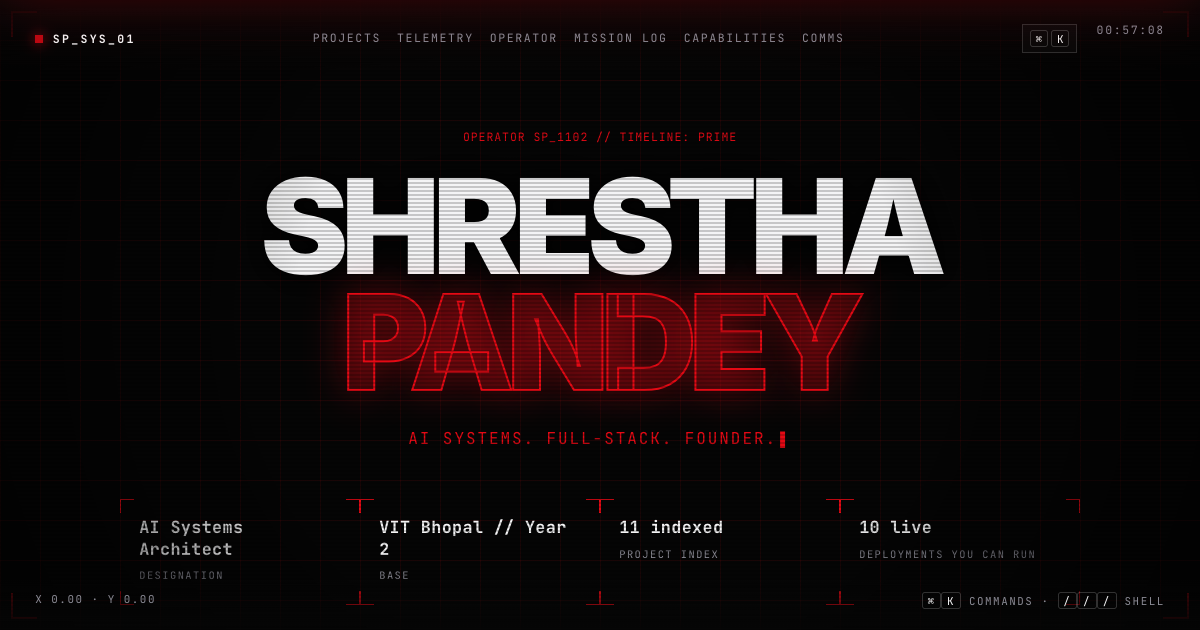
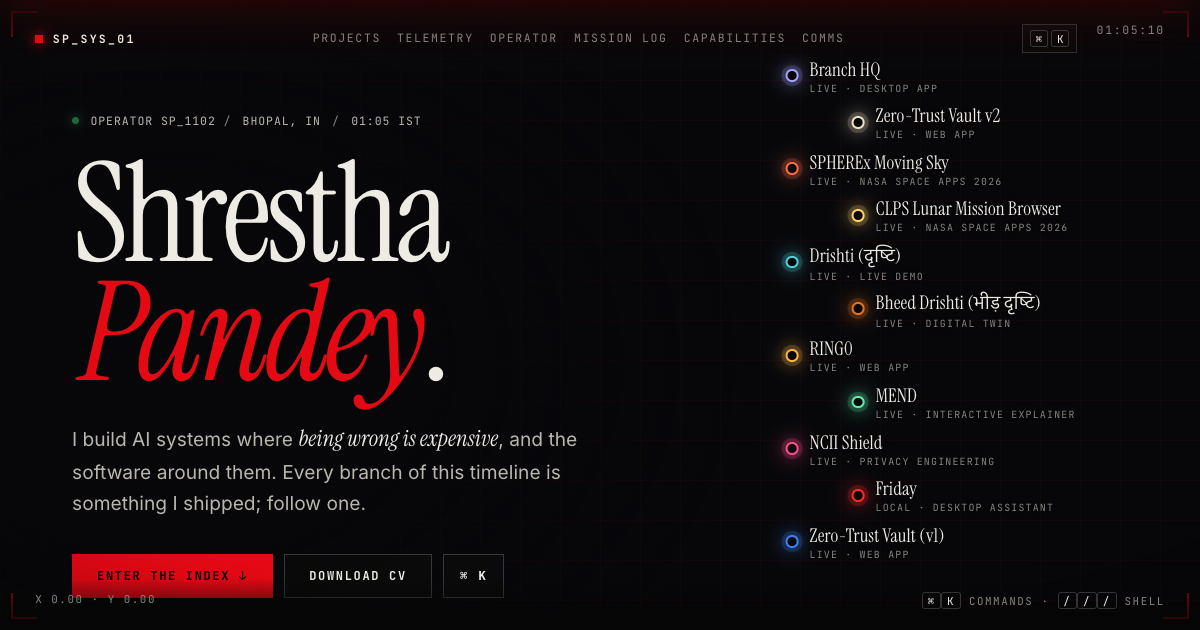
REDESIGN: landing page in the language of the projects themselves
Serif display name with the red italic, warm ink palette, no scanlines.
The timeline is now the navigation: every strand ends at a labelled,
clickable project node, and hovering a node or an index row lights its
branch. Serif section headings, live stat line, refreshed OG image.

diff --git a/home.js b/home.js
@@ -10,16 +10,13 @@
     boot.addEventListener('click', end); addEventListener('keydown', end, { once: true });
 })();
 
-// ---- Hero text ----
-scramble(document.querySelector('#name span'), 'SHRESTHA', 900);
-scramble(document.querySelector('#name .r'), 'PANDEY', 1200);
-(() => { // typed subtitle
-    const el = document.getElementById('sub'), text = 'AI SYSTEMS. FULL-STACK. FOUNDER.';
-    if (calm) return (el.textContent = text);
-    let i = 0; setTimeout(function t() { el.textContent = text.slice(0, ++i); if (i < text.length) setTimeout(t, 55); }, 1300);
+// ---- Hero ----
+(() => {
+    const T = typeof TELEMETRY !== 'undefined' ? TELEMETRY.totals : null, live = PROJECTS.filter(p => p.live).length;
+    document.getElementById('hero-stats').innerHTML = [`<b>${PROJECTS.length}</b> timelines`, `<b>${live}</b> running live`, ...(T ? [`<b>${fmt(T.commits)}</b> commits`, `<b>${fmt(T.loc)}</b> lines`] : [])].join('<i aria-hidden="true">/</i>');
+    const ht = document.getElementById('hero-time'), tk = () => (ht.textContent = new Date().toLocaleTimeString('en-GB', { timeZone: 'Asia/Kolkata', hour: '2-digit', minute: '2-digit' }) + ' IST');
+    tk(); setInterval(tk, 30000);
 })();
-document.getElementById('count').textContent = PROJECTS.length + ' indexed';
-document.getElementById('livecount').textContent = PROJECTS.filter(p => p.live).length + ' live';
 
 // ---- Project index + inspector ----
 const targets = document.getElementById('targets'), insp = document.getElementById('insp');
@@ -65,16 +62,22 @@ const navLinks = [...document.querySelectorAll('.nav a')];
 const seenObs = new IntersectionObserver(es => es.forEach(e => { if (e.isIntersecting) navLinks.forEach(a => a.setAttribute('aria-current', String(a.hash === '#' + e.target.id))); }), { rootMargin: '-40% 0px -55% 0px' });
 document.querySelectorAll('main > section').forEach(s => seenObs.observe(s));
 
-// ---- Background: a branching timeline. One luminous trunk splits into a strand per project (each in its colour);
-// strands grow, carry pulses, get pruned and regrow. Hover a project to light its branch. ----
+// ---- Background: a branching timeline. A trunk splits into one strand per project, in that project's colour;
+// on wide screens each strand ends at a labelled node you can click. Side branches grow, get pruned and regrow. ----
 (() => {
-    const canvas = document.getElementById('bg-canvas'), ctx = canvas.getContext('2d');
+    const canvas = document.getElementById('bg-canvas'), ctx = canvas.getContext('2d'), nodesEl = document.getElementById('nodes');
     const DPR = Math.min(devicePixelRatio || 1, 2), cols = PROJECTS.map(p => p.accent), N = cols.length;
     const R = (a, b) => a + Math.random() * (b - a), accentNow = () => getComputedStyle(document.documentElement).getPropertyValue('--accent').trim() || '#e50914';
-    let W, H, branches = [], pulses = [], focus = -1, mono = null, trunkCol = accentNow(), t = 0, mx = 0, my = 0, smx = 0, smy = 0, nextPrune = 4;
+    let W, H, branches = [], mains = [], pulses = [], focus = -1, mono = null, trunkCol = accentNow(), t = 0, mx = 0, my = 0, smx = 0, smy = 0, nextPrune = 5;
+    const wide = () => innerWidth > 900;
 
-    // A strand wanders: a slow sine sway plus jitter, eased toward a heading so it keeps travelling outward.
-    const walk = (x, y, ang, len, heading, ph, maxSteps = 900) => {
+    nodesEl.innerHTML = PROJECTS.map((p, i) => `<a class="node" href="project.html?id=${p.id}" style="--c:${p.accent}" data-i="${i}"><i aria-hidden="true"></i><span><b>${esc(p.title)}</b><small>${p.live ? 'live' : 'local'} · ${esc(p.kind.split('·')[0].trim())}</small></span></a>`).join('');
+    const nodeEls = [...nodesEl.children];
+    nodesEl.addEventListener('pointerover', e => { const n = e.target.closest('.node'); if (n) window.hudFocus(+n.dataset.i); });
+    nodesEl.addEventListener('pointerleave', () => window.hudFocus(-1));
+    nodesEl.addEventListener('focusin', e => { const n = e.target.closest('.node'); if (n) window.hudFocus(+n.dataset.i); });
+
+    const walk = (x, y, ang, len, heading, ph, maxSteps = 900) => { // a wandering side branch
         const pts = [x, y];
         for (let i = 0; i < maxSteps; i++) {
             ang += Math.sin(i * .06 + ph) * .03 + R(-.012, .012) + (heading - ang) * .012;
@@ -83,73 +86,80 @@ document.querySelectorAll('main > section').forEach(s => seenObs.observe(s));
         }
         return pts;
     };
+    const curve = (sx, sy, tx, ty, len) => { // an S-curve from the split point to the node, with a slight living wobble
+        const pts = [], n = Math.max(8, Math.ceil(Math.hypot(tx - sx, ty - sy) / len)), ph = R(0, 6), cx = sx + (tx - sx) * .55;
+        for (let k = 0; k <= n; k++) {
+            const u = k / n, a = (1 - u) ** 3, b = 3 * (1 - u) ** 2 * u, c = 3 * (1 - u) * u * u, d = u ** 3;
+            const x = a * sx + b * cx + c * cx + d * tx, y = a * sy + b * sy + c * ty + d * ty, w = Math.sin(u * Math.PI * 3 + ph) * 5 * DPR * Math.sin(u * Math.PI);
+            pts.push(x, y + w);
+        }
+        return pts;
+    };
     const add = (pts, k, w, depth, delay) => { const b = { pts, n: pts.length / 2, k, w, depth, delay, g: 0, a: 1, state: 0, wait: 0, flash: 0 }; branches.push(b); return b; };
 
     const build = (grown = false) => {
         W = canvas.width = Math.round(innerWidth * DPR); H = canvas.height = Math.round(innerHeight * DPR);
-        const len = 7 * DPR, small = innerWidth < 700; branches = []; pulses = [];
-        const trunk = walk(-.04 * W, .5 * H, 0, len, 0, R(0, 6), Math.round(W * .62 / len));
-        add(trunk, -1, 3.4 * DPR, 0, 0);
+        const len = 7 * DPR, big = wide(); branches = []; mains = [];
+        const trunk = curve(-.04 * W, (big ? .7 : .62) * H, (big ? .56 : 1.05) * W, (big ? .5 : .55) * H, len); // the trunk rises gently and ends where the last strand splits off
+        add(trunk, -1, 3.2 * DPR, 0, 0);
+        const xAt = x => { let j = 0; while (j < trunk.length / 2 - 1 && trunk[j * 2] < x) j++; return j; };
         for (let i = 0; i < N; i++) {
-            const f = .16 + .56 * i / (N - 1), j = Math.floor(f * (trunk.length / 2 - 1)), side = i % 2 ? 1 : -1;
-            const spread = (.22 + .6 * ((i >> 1) / (N / 2))) * side + R(-.06, .06); // alternate above/below, wider the later they split
-            const main = walk(trunk[j * 2], trunk[j * 2 + 1], spread * .4, len, spread * .5, R(0, 6));
-            add(main, i, 1.9 * DPR, 1, .6 + i * .13);
-            for (let s = 0, subs = small ? 2 : 3 + (i % 3); s < subs; s++) {
-                const m = Math.floor(R(.12, .8) * (main.length / 2 - 2)), dir = Math.random() < .5 ? -1 : 1;
-                const sub = walk(main[m * 2], main[m * 2 + 1], spread * .5 + dir * R(.2, .5), len * .9, spread * .5 + dir * R(.5, 1), R(0, 6), Math.floor(R(30, 90)));
-                add(sub, i, 1 * DPR, 2, 1.3 + i * .13 + s * .25);
-                if (!small && Math.random() < .55) { const m2 = Math.floor(R(.3, .8) * (sub.length / 2 - 2)); add(walk(sub[m2 * 2], sub[m2 * 2 + 1], spread * .5 + dir * R(.6, 1.1), len * .8, spread * .5 + dir * R(.8, 1.4), R(0, 6), Math.floor(R(15, 40))), i, .7 * DPR, 3, 2 + i * .13 + s * .25); }
+            const j = xAt(W * (.18 + .34 * i / (N - 1))), sx = trunk[j * 2], sy = trunk[j * 2 + 1];
+            const tx = big ? W * (.66 + (i % 2) * .055) : W * 1.12, ty = H * (big ? .12 + .74 * i / (N - 1) : .04 + .9 * i / (N - 1));
+            const main = add(curve(sx, sy, tx, ty, len), i, 1.8 * DPR, 1, .5 + i * .14); main.node = [tx / DPR, ty / DPR]; mains[i] = main;
+            for (let s = 0, subs = big ? 2 + (i % 2) : 1; s < subs; s++) { // side branches peel off the strand
+                const m = Math.floor(R(.2, .75) * (main.n - 2)), dx = main.pts[(m + 1) * 2] - main.pts[m * 2], dy = main.pts[(m + 1) * 2 + 1] - main.pts[m * 2 + 1], dir = Math.random() < .5 ? -1 : 1, ang = Math.atan2(dy, dx);
+                add(walk(main.pts[m * 2], main.pts[m * 2 + 1], ang + dir * R(.3, .6), len * .9, ang + dir * R(.6, 1.1), R(0, 6), Math.floor(R(25, 70))), i, .9 * DPR, 2, 1.4 + i * .14 + s * .3);
             }
         }
         if (grown) branches.forEach(b => { b.g = 1; b.state = 2; });
-        pulses = Array.from({ length: small ? 10 : 22 }, () => ({ b: null, u: 0, sp: R(.1, .26) }));
+        pulses = Array.from({ length: big ? 20 : 9 }, () => ({ b: null, u: 0, sp: R(.12, .3) }));
+        nodeEls.forEach((el, i) => { el.style.left = mains[i].node[0] + 'px'; el.style.top = mains[i].node[1] + 'px'; el.classList.toggle('on', grown); });
     };
     build(); addEventListener('resize', () => build(true));
     addEventListener('pointermove', e => { mx = e.clientX / innerWidth * 2 - 1; my = e.clientY / innerHeight * 2 - 1; });
-    window.hudFocus = i => { focus = i; };                                    // hovered project: its branch glows, the rest recede
-    window.heroTint = hex => { mono = hex; trunkCol = hex; };                 // `theme` in the shell: everything goes one colour
+    window.hudFocus = i => { focus = i; nodeEls.forEach((el, k) => el.classList.toggle('lit', k === i)); nodesEl.classList.toggle('focus', i >= 0); };
+    window.heroTint = hex => { mono = hex; trunkCol = hex; };
 
-    const pickPulseBranch = () => { const live = branches.filter(b => b.state >= 1 && b.state <= 2 && b.g > .5 && b.depth > 0); return live.length ? live[(Math.random() * live.length) | 0] : null; };
-    const step = dt => { // dt in seconds
+    const pickPulse = () => { const live = branches.filter(b => b.state >= 1 && b.state <= 2 && b.g > .5 && b.depth > 0); return live.length ? live[(Math.random() * live.length) | 0] : null; };
+    const step = dt => {
         t += dt; smx += (mx - smx) * Math.min(1, dt * 3); smy += (my - smy) * Math.min(1, dt * 3);
         for (const b of branches) {
             if (b.state === 0 && t >= b.delay) b.state = 1;
-            if (b.state === 1) { b.g = Math.min(1, b.g + dt / (2.2 + b.depth * .7)); if (b.g >= 1) b.state = 2; }
+            if (b.state === 1) { b.g = Math.min(1, b.g + dt / (1.8 + b.depth * .6)); if (b.g >= 1) b.state = 2; }
             if (b.state === 3) { b.a -= dt / 1.4; b.flash = Math.max(0, b.flash - dt * 2); if (b.a <= 0) { b.state = 4; b.wait = R(1.5, 3.5); } }
             if (b.state === 4 && (b.wait -= dt) <= 0) { b.g = 0; b.a = 1; b.state = 1; }
         }
-        if (t > nextPrune) { // a strand is pruned: it flashes, fades, then a new one grows in its place
-            nextPrune = t + R(3, 6);
-            const held = branches.filter(b => b.state === 2 && b.depth >= 2); if (held.length) { const b = held[(Math.random() * held.length) | 0]; b.state = 3; b.flash = 1; }
-        }
-        for (const p of pulses) { if (!p.b || p.b.state > 2 || p.u >= p.b.g) { p.b = pickPulseBranch(); p.u = 0; } else p.u += dt * p.sp; }
+        mains.forEach((b, i) => nodeEls[i].classList.toggle('on', b.g >= .98));
+        if (t > nextPrune) { nextPrune = t + R(3, 6); const held = branches.filter(b => b.state === 2 && b.depth >= 2); if (held.length) { const b = held[(Math.random() * held.length) | 0]; b.state = 3; b.flash = 1; } }
+        for (const p of pulses) { if (!p.b || p.b.state > 2 || p.u >= p.b.g) { p.b = pickPulse(); p.u = 0; } else p.u += dt * p.sp; }
     };
     const draw = () => {
         ctx.setTransform(1, 0, 0, 1, 0, 0); ctx.clearRect(0, 0, W, H);
-        ctx.translate(-smx * 14 * DPR, -smy * 8 * DPR); ctx.globalCompositeOperation = 'lighter'; ctx.lineCap = ctx.lineJoin = 'round';
-        const tip = [];
+        ctx.translate(-smx * 14 * DPR, -smy * 8 * DPR); nodesEl.style.transform = `translate(${(-smx * 14).toFixed(1)}px, ${(-smy * 8).toFixed(1)}px)`;
+        ctx.globalCompositeOperation = 'lighter'; ctx.lineCap = ctx.lineJoin = 'round';
+        const tips = [];
         for (const b of branches) {
             if (b.state === 0 || b.a <= 0) continue;
             const m = Math.max(2, Math.floor(b.g * (b.n - 1)) + 1), col = mono || (b.k < 0 ? trunkCol : cols[b.k]);
-            const f = (focus < 0 ? 1 : b.k === focus ? 2 : b.k < 0 ? .8 : .28) * (innerWidth < 700 ? .55 : 1), base = [.9, .6, .42, .3][b.depth];
+            const f = (focus < 0 ? 1 : b.k === focus ? 2.1 : b.k < 0 ? .7 : .22) * (wide() ? 1 : .55), base = [.85, .62, .38, .28][b.depth];
             ctx.strokeStyle = col; ctx.beginPath(); ctx.moveTo(b.pts[0], b.pts[1]); for (let i = 1; i < m; i++) ctx.lineTo(b.pts[i * 2], b.pts[i * 2 + 1]);
-            ctx.lineWidth = b.w * 4; ctx.globalAlpha = Math.min(1, .07 * f) * b.a; ctx.stroke();      // soft halo
-            ctx.lineWidth = b.w * (focus === b.k ? 1.5 : 1); ctx.globalAlpha = Math.min(1, base * f) * b.a; ctx.stroke();  // the strand
-            if (b.state === 1 || b.flash > 0) tip.push([b.pts[(m - 1) * 2], b.pts[(m - 1) * 2 + 1], col, b.flash]);
+            ctx.lineWidth = b.w * 4.5; ctx.globalAlpha = Math.min(1, .07 * f) * b.a; ctx.stroke();
+            ctx.lineWidth = b.w * (focus === b.k ? 1.6 : 1); ctx.globalAlpha = Math.min(1, base * f) * b.a; ctx.stroke();
+            if ((b.state === 1 && b.depth > 0) || b.flash > 0) tips.push([b.pts[(m - 1) * 2], b.pts[(m - 1) * 2 + 1], col, b.flash]);
         }
-        ctx.globalAlpha = 1;
-        for (const [x, y, col, fl] of tip) { ctx.fillStyle = fl > 0 ? '#fff' : col; ctx.globalAlpha = fl > 0 ? fl : .8; ctx.beginPath(); ctx.arc(x, y, (fl > 0 ? 3 + 6 * (1 - fl) : 2) * DPR, 0, 6.283); ctx.fill(); }
-        for (const p of pulses) { // a bright bead travelling out along a strand
-            if (!p.b) continue; const i = Math.min(p.b.n - 1, Math.floor(p.u * (p.b.n - 1))), x = p.b.pts[i * 2], y = p.b.pts[i * 2 + 1], col = mono || cols[p.b.k];
-            ctx.fillStyle = col; ctx.globalAlpha = .18 * p.b.a; ctx.beginPath(); ctx.arc(x, y, 7 * DPR, 0, 6.283); ctx.fill();
-            ctx.fillStyle = '#fff'; ctx.globalAlpha = .85 * p.b.a; ctx.beginPath(); ctx.arc(x, y, 1.6 * DPR, 0, 6.283); ctx.fill();
+        for (const [x, y, col, fl] of tips) { ctx.fillStyle = fl > 0 ? '#fff' : col; ctx.globalAlpha = fl > 0 ? fl : .85; ctx.beginPath(); ctx.arc(x, y, (fl > 0 ? 3 + 6 * (1 - fl) : 2) * DPR, 0, 6.283); ctx.fill(); }
+        for (const p of pulses) {
+            if (!p.b) continue; const i = Math.min(p.b.n - 1, Math.floor(p.u * (p.b.n - 1))), x = p.b.pts[i * 2], y = p.b.pts[i * 2 + 1];
+            ctx.fillStyle = mono || cols[p.b.k]; ctx.globalAlpha = .2 * p.b.a; ctx.beginPath(); ctx.arc(x, y, 7 * DPR, 0, 6.283); ctx.fill();
+            ctx.fillStyle = '#fff'; ctx.globalAlpha = .9 * p.b.a; ctx.beginPath(); ctx.arc(x, y, 1.6 * DPR, 0, 6.283); ctx.fill();
         }
         ctx.globalAlpha = 1;
     };
-    if (calm) { build(true); draw(); return; } // reduced motion: a fully grown, still timeline
+    const fade = () => { const k = Math.min(1, scrollY / innerHeight); canvas.style.opacity = String(1 - k * .8); nodesEl.style.opacity = String(1 - k * 1.6); nodesEl.style.visibility = k > .62 ? 'hidden' : ''; };
+    if (calm) { build(true); draw(); addEventListener('scroll', fade, { passive: true }); return; } // reduced motion: a still, fully grown timeline
     let last = performance.now();
-    (function loop(now) { requestAnimationFrame(loop); const dt = Math.min(.1, (now - last) / 1000); last = now; step(dt); draw(); canvas.style.opacity = String(1 - Math.min(1, scrollY / innerHeight) * .6); })(last);
+    (function loop(now) { requestAnimationFrame(loop); const dt = Math.min(.1, (now - last) / 1000); last = now; step(dt); draw(); fade(); })(last);
 })();
 
 // ---- Shell: type /// ----

diff --git a/site.css b/site.css
@@ -1,14 +1,14 @@
 /* SP_SYS: a terminal OS for a CV. Original look (red HUD, bracketed targets, hidden shell), taken further. */
 :root {
     color-scheme: dark;
-    --bg: #050505; --fg: #f4f4f5; --soft: #c4c4cc; --muted: #8a8a94; --line: #1f1f24;
+    --bg: #07070a; --fg: #eeebe4; --soft: #b9b6ae; --muted: #85837d; --line: #1f1f24;
     --accent: #e50914; --accent2: #ff6b73;
-    --display: 'Inter', system-ui, sans-serif; --body: 'Inter', system-ui, sans-serif; --mono: 'JetBrains Mono', ui-monospace, Menlo, monospace;
+    --display: 'Inter', system-ui, sans-serif; --serif: 'Instrument Serif', 'Iowan Old Style', Georgia, serif; --body: 'Inter', system-ui, sans-serif; --mono: 'JetBrains Mono', ui-monospace, Menlo, monospace;
 }
 @view-transition { navigation: auto; } /* cross-document morphs between home and dossiers, where supported */
 * { margin: 0; padding: 0; box-sizing: border-box; }
 html { scroll-behavior: smooth; scroll-padding-top: 5rem; }
-body { --hot: var(--accent); --grid: color-mix(in srgb, var(--accent) 9%, transparent); background: var(--bg); color: var(--soft); font: 400 1rem/1.7 var(--body); -webkit-font-smoothing: antialiased; overflow-x: hidden;
+body { --hot: var(--accent); --grid: color-mix(in srgb, var(--accent) 5%, transparent); background: var(--bg); color: var(--soft); font: 400 1rem/1.7 var(--body); -webkit-font-smoothing: antialiased; overflow-x: hidden;
     background-image: linear-gradient(var(--grid) 1px, transparent 1px), linear-gradient(90deg, var(--grid) 1px, transparent 1px); background-size: 40px 40px; }
 a { color: inherit; text-decoration: none; }
 :focus-visible { outline: 2px solid var(--hot); outline-offset: 3px; }
@@ -31,7 +31,7 @@ h1, h2, h3 { color: var(--fg); text-wrap: balance; }
     background-image: linear-gradient(var(--accent), var(--accent)), linear-gradient(var(--accent), var(--accent)), linear-gradient(var(--accent), var(--accent)), linear-gradient(var(--accent), var(--accent)), linear-gradient(var(--accent), var(--accent)), linear-gradient(var(--accent), var(--accent)), linear-gradient(var(--accent), var(--accent)), linear-gradient(var(--accent), var(--accent));
     background-repeat: no-repeat; background-size: 26px 2px, 2px 26px, 26px 2px, 2px 26px, 26px 2px, 2px 26px, 26px 2px, 2px 26px;
     background-position: 0 0, 0 0, 100% 0, 100% 0, 0 100%, 0 100%, 100% 100%, 100% 100%; }
-.hud::after { content: ''; position: absolute; inset: 0; background: linear-gradient(transparent 50%, #00000030 50%) 0 0/100% 4px, radial-gradient(circle, transparent 45%, #000 135%); }
+.hud::after { content: ''; position: absolute; inset: 0; background: radial-gradient(120% 90% at 50% 45%, transparent 55%, #000 140%); }
 #bg-canvas { position: fixed; inset: 0; z-index: -2; width: 100%; height: 100%; }
 
 /* Top and bottom bars */
@@ -58,18 +58,45 @@ h1, h2, h3 { color: var(--fg); text-wrap: balance; }
 
 /* ---------- HOME ---------- */
 main { padding: 0 clamp(1.25rem, 6vw, 6rem); max-width: 84rem; margin: 0 auto; }
-.hero { min-height: 100vh; min-height: 100svh; display: flex; flex-direction: column; justify-content: center; align-items: center; text-align: center; padding: 8rem 0 6rem; }
-.hero .tag { color: var(--accent); margin-bottom: 1.4rem; }
-.hero h1 { text-shadow: 0 0 40px #000, 0 0 12px #000a; font: 900 clamp(3.2rem, 11vw, 9.5rem)/.88 var(--display); letter-spacing: -.055em; text-transform: uppercase; }
+.hero { position: relative; min-height: 100vh; min-height: 100svh; display: flex; align-items: center; padding: 7rem 0 5rem; }
+.hero-copy { position: relative; max-width: 44rem; }
+.hero-copy::before { content: ''; position: absolute; inset: -12rem -10rem -8rem -40vw; z-index: -1; background: radial-gradient(closest-side, #07070ae6 40%, transparent); pointer-events: none; }
+.kick { display: flex; align-items: center; gap: .7rem; color: var(--soft); }
+.kick { white-space: nowrap; } .kick i { font-style: normal; color: var(--muted); }
+@media (max-width: 520px) { .kick .op { display: none; } }
+.kick .dot { width: .45rem; height: .45rem; border-radius: 50%; background: #4ade80; box-shadow: 0 0 10px #4ade80; animation: pulse 2.4s infinite; }
+.hero h1 { margin-top: 1.6rem; font: 400 clamp(4.4rem, 11.5vw, 10.5rem)/.86 var(--serif); letter-spacing: -.035em; color: var(--fg); }
 .hero h1 span { display: block; }
-.hero h1 .r { color: color-mix(in srgb, var(--accent) 20%, transparent); -webkit-text-stroke: 2px var(--accent); text-shadow: 0 0 40px color-mix(in srgb, var(--accent) 45%, transparent); }
-.hero .sub { margin-top: 1.6rem; font: 400 clamp(.8rem, 1.6vw, 1rem)/1.6 var(--mono); letter-spacing: .12em; color: var(--accent); min-height: 1.6em; }
-.hero .sub::after { content: '▌'; margin-left: .2rem; animation: pulse 1s steps(1) infinite; }
-.readout { margin-top: 3rem; display: grid; grid-template-columns: repeat(4, minmax(0, 1fr)); width: min(100%, 60rem); }
-.cell { padding: 1.1rem 1.2rem; text-align: left; }
+.hero h1 .l2 { font-style: italic; color: var(--accent); padding-left: .06em; }
+.hero h1 .l2 b { font-weight: 400; color: var(--fg); font-style: normal; }
+@media (prefers-reduced-motion: no-preference) {
+    .hero h1 span, .hero-sub, .hero .cta, .hero-stats, .kick { animation: heroIn 1.1s cubic-bezier(.2, .8, .2, 1) both; }
+    .hero h1 .l1 { animation-delay: .15s; } .hero h1 .l2 { animation-delay: .3s; } .hero-sub { animation-delay: .5s; } .hero .cta { animation-delay: .65s; } .hero-stats { animation-delay: .8s; }
+    @keyframes heroIn { from { opacity: 0; translate: 0 .5em; filter: blur(8px); } }
+}
+.hero-sub { margin-top: 1.8rem; max-width: 33rem; font-size: clamp(1.05rem, 1.6vw, 1.25rem); line-height: 1.6; color: var(--soft); text-wrap: pretty; }
+.hero-sub em { font-style: italic; font-family: var(--serif); font-size: 1.18em; color: var(--fg); }
+.hero .cta { margin-top: 2.2rem; display: flex; gap: .7rem; flex-wrap: wrap; }
+.hero .btn.ghost { padding: .95rem 1rem; }
+.hero-stats { display: flex; flex-wrap: wrap; gap: .5rem .8rem; margin-top: 2.6rem; padding-top: 1.2rem; border-top: 1px solid #ffffff14; color: var(--muted); }
+.hero-stats b { color: var(--fg); font-weight: 500; margin-right: .3rem; } .hero-stats i { font-style: normal; color: #ffffff26; }
+
+/* Project nodes at the tips of the timeline (desktop) */
+.nodes { position: fixed; inset: 0; z-index: 1; pointer-events: none; }
+.node { position: absolute; display: flex; align-items: center; gap: .7rem; translate: -.4rem -50%; pointer-events: auto; opacity: 0; transition: opacity .6s, filter .3s; text-shadow: 0 0 12px #000, 0 0 3px #000; }
+.node.on { opacity: 1; }
+.node i { flex: none; width: .8rem; height: .8rem; border-radius: 50%; background: var(--bg); border: 2px solid var(--c); box-shadow: 0 0 0 4px color-mix(in srgb, var(--c) 18%, transparent), 0 0 18px var(--c); transition: transform .25s, background .25s; }
+.node span { display: grid; line-height: 1.15; }
+.node b { font: 400 1.18rem var(--serif); color: var(--fg); letter-spacing: .005em; white-space: nowrap; }
+.node small { font: 400 .62rem var(--mono); letter-spacing: .12em; text-transform: uppercase; color: var(--muted); }
+.node:hover i, .node.lit i, .node:focus-visible i { transform: scale(1.35); background: var(--c); }
+.node:hover b, .node.lit b { color: var(--c); }
+.nodes.focus .node:not(.lit) { opacity: .28; filter: saturate(.4); }
+@media (max-width: 900px) { .nodes { display: none; } .hero { padding-top: 6rem; } .hero-copy::before { inset: -6rem -2rem -4rem -2rem; } }
+.readout, .cell { text-align: left; }
+.cell { padding: 1.1rem 1.2rem; }
 .cell b { display: block; font: 700 1.05rem/1.3 var(--mono); color: var(--fg); letter-spacing: .02em; }
 .cell span { font: 400 .65rem/1.6 var(--mono); letter-spacing: .14em; text-transform: uppercase; color: var(--muted); }
-.hero .cta { margin-top: 2.5rem; display: flex; gap: .8rem; flex-wrap: wrap; justify-content: center; }
 .btn { display: inline-flex; align-items: center; gap: .6rem; padding: .95rem 1.5rem; font: 700 .75rem/1 var(--mono); letter-spacing: .14em; text-transform: uppercase; color: var(--fg); border: 1px solid #ffffff30; background: #0a0a0acc; transition: background .2s, color .2s, border-color .2s, box-shadow .2s; }
 .btn:hover { border-color: var(--hot); color: var(--hot); box-shadow: 0 0 24px color-mix(in srgb, var(--hot) 35%, transparent); }
 .btn.main { background: var(--accent); border-color: var(--accent); color: #000; }
@@ -78,7 +105,8 @@ main { padding: 0 clamp(1.25rem, 6vw, 6rem); max-width: 84rem; margin: 0 auto; }
 .mod { padding: 7rem 0 0; scroll-margin-top: 3rem; }
 .mod > header { display: flex; align-items: baseline; gap: 1.2rem; margin-bottom: 3rem; }
 .mod > header .n { font: 400 .8rem/1 var(--mono); color: var(--accent); letter-spacing: .14em; }
-.mod > header h2 { font: 900 clamp(1.8rem, 4.5vw, 3.4rem)/1 var(--display); letter-spacing: -.045em; text-transform: uppercase; }
+.mod > header h2 { font: 400 clamp(2.6rem, 5.6vw, 4.6rem)/1 var(--serif); letter-spacing: -.025em; }
+.mod > header h2 em { color: var(--accent); }
 .mod > header::after { content: ''; flex: 1; height: 1px; background: linear-gradient(90deg, var(--accent), transparent); opacity: .6; }
 .mod .note { max-width: 40rem; margin: -1.5rem 0 2.5rem; color: var(--muted); font-size: .95rem; }
 
@@ -94,7 +122,7 @@ main { padding: 0 clamp(1.25rem, 6vw, 6rem); max-width: 84rem; margin: 0 auto; }
 .target:hover::before, .target:hover::after, .target:focus-visible::before, .target:focus-visible::after, .targets li.on .target::before, .targets li.on .target::after { color: var(--hot); text-shadow: 0 0 14px var(--hot); }
 .targets li:hover, .targets li.on { border-bottom-color: var(--hot); }
 .target .idx { font: 400 .75rem/1 var(--mono); color: var(--muted); letter-spacing: .1em; }
-.target h3 { font: 800 clamp(1.3rem, 2.6vw, 2rem)/1.1 var(--display); letter-spacing: -.035em; transition: color .25s; }
+.target h3 { font: 400 clamp(1.6rem, 3vw, 2.4rem)/1.05 var(--serif); letter-spacing: -.01em; transition: color .25s; }
 .target .k { margin-top: .3rem; }
 .targets li:hover h3, .targets li.on h3, .targets li:hover .idx, .targets li.on .idx { color: var(--hot); }
 .pill { font: 700 .62rem/1 var(--mono); letter-spacing: .14em; padding: .38rem .6rem; border: 1px solid currentColor; color: var(--muted); white-space: nowrap; }
@@ -103,7 +131,7 @@ main { padding: 0 clamp(1.25rem, 6vw, 6rem); max-width: 84rem; margin: 0 auto; }
 
 .insp { position: sticky; top: 6rem; padding: 1.8rem; background: #0a0a0acc; backdrop-filter: blur(8px); --bc: var(--hot); min-height: 24rem; }
 .insp .sys { color: var(--hot); }
-.insp h3 { margin: .5rem 0 .3rem; font: 900 clamp(1.8rem, 3vw, 2.6rem)/1 var(--display); letter-spacing: -.05em; text-transform: uppercase; }
+.insp h3 { margin: .5rem 0 .3rem; font: 400 clamp(2rem, 3.2vw, 2.9rem)/1 var(--serif); letter-spacing: -.015em; }
 .insp p.sum { margin: 1rem 0 1.4rem; font-size: .95rem; color: var(--soft); }
 .insp .st { display: grid; grid-template-columns: repeat(3, minmax(0, 1fr)); gap: .8rem; padding: 1rem 0; border-block: 1px solid #ffffff14; }
 .insp .st b { display: block; font: 700 1.05rem/1.2 var(--mono); color: var(--hot); overflow-wrap: anywhere; }

diff --git a/index.html b/index.html
@@ -19,13 +19,14 @@
     <script type="application/ld+json">{"@context":"https://schema.org","@type":"Person","name":"Shrestha Pandey","url":"https://sp-sys-portfolio.vercel.app/","email":"mailto:shresthakp07@gmail.com","jobTitle":"AI Systems Architect, Full-Stack Developer, Founder","affiliation":{"@type":"CollegeOrUniversity","name":"VIT Bhopal University"},"sameAs":["https://github.com/shrestha-droid","https://www.kaggle.com/shrestha11022007"]}</script>
     <link rel="preconnect" href="https://fonts.googleapis.com">
     <link rel="preconnect" href="https://fonts.gstatic.com" crossorigin>
-    <link href="https://fonts.googleapis.com/css2?family=Inter:wght@400;500;600;700;800;900&family=JetBrains+Mono:wght@400;500;700&display=swap" rel="stylesheet">
+    <link href="https://fonts.googleapis.com/css2?family=Instrument+Serif:ital@0;1&family=Inter:wght@400;500;600;700&family=JetBrains+Mono:wght@400;500;700&display=swap" rel="stylesheet">
     <link rel="stylesheet" href="site.css">
 </head>
 <body>
     <a class="skip" href="#ident">Skip to content</a>
     <div id="boot" aria-hidden="true"></div>
     <canvas id="bg-canvas" aria-hidden="true"></canvas>
+    <nav class="nodes" id="nodes" aria-label="Projects on the timeline"></nav>
     <div class="hud" aria-hidden="true"></div>
     <div class="prog" id="prog" aria-hidden="true"></div>
 
@@ -44,24 +45,21 @@
 
     <main>
         <section class="hero" id="ident">
-            <p class="tag mono">Operator SP_1102 // Timeline: prime</p>
-            <h1 id="name"><span>Shrestha</span><span class="r">Pandey</span></h1>
-            <p class="sub" id="sub" aria-label="AI systems. Full-stack. Founder."></p>
-            <div class="readout">
-                <div class="cell brk"><b>AI Systems Architect</b><span>Designation</span></div>
-                <div class="cell brk"><b>VIT Bhopal // Year 2</b><span>Base</span></div>
-                <div class="cell brk"><b id="count">11 indexed</b><span>Project index</span></div>
-                <div class="cell brk"><b id="livecount">10 live</b><span>Deployments you can run</span></div>
-            </div>
-            <div class="cta">
-                <a class="btn main" href="#projects">Enter project index ↓</a>
-                <a class="btn" href="https://github.com/shrestha-droid" target="_blank" rel="noopener">GitHub ↗</a>
-                <button class="btn" type="button" id="print-cv">Print CV</button>
+            <div class="hero-copy">
+                <p class="kick mono"><span class="dot" aria-hidden="true"></span><span class="op">Operator SP_1102 <i>/</i></span> Bhopal, IN <i>/</i> <span id="hero-time">IST</span></p>
+                <h1 id="name"><span class="l1">Shrestha</span><span class="l2">Pandey<b>.</b></span></h1>
+                <p class="hero-sub">I build AI systems where <em>being wrong is expensive</em>, and the software around them. Every branch of this timeline is something I shipped; follow one.</p>
+                <div class="cta">
+                    <a class="btn main" href="#projects">Enter the index ↓</a>
+                    <a class="btn" href="cv.pdf" download="Shrestha-Pandey-CV.pdf">Download CV</a>
+                    <button class="btn ghost" type="button" data-palette aria-label="Open the command palette"><kbd>⌘</kbd><kbd>K</kbd></button>
+                </div>
+                <p class="hero-stats mono" id="hero-stats"></p>
             </div>
         </section>
 
         <section class="mod" id="projects">
-            <header><span class="n">01</span><h2>Project index</h2></header>
+            <header><span class="n">01</span><h2>The <em>index</em></h2></header>
             <p class="note">Hover a target to inspect it; open it for the full dossier, where most can be booted and run in the page. Each dossier wears its project's real identity.</p>
             <div class="index">
                 <ul class="targets" id="targets"></ul>
@@ -71,7 +69,7 @@
         </section>
 
         <section class="mod" id="telemetry">
-            <header><span class="n">02</span><h2>Telemetry</h2></header>
+            <header><span class="n">02</span><h2>By the <em>numbers</em></h2></header>
             <p class="note" id="tele-note">Counted from the git history of every project in the index, not estimated.</p>
             <div class="tm-big" id="tm-big"></div>
             <div class="tm-grid">
@@ -82,7 +80,7 @@
         </section>
 
         <section class="mod" id="operator">
-            <header><span class="n">03</span><h2>Operator</h2></header>
+            <header><span class="n">03</span><h2>The <em>operator</em></h2></header>
             <div class="about">
                 <div>
                     <p class="lead">I like problems where <em>being wrong is expensive</em>: security, simulation, and software that has to keep working when nobody is watching.</p>
@@ -97,7 +95,7 @@
         </section>
 
         <section class="mod" id="log">
-            <header><span class="n">04</span><h2>Mission log</h2></header>
+            <header><span class="n">04</span><h2>Mission <em>log</em></h2></header>
             <ol class="log">
                 <li><span class="when">Present</span><div><h3>Founder, Concierge</h3><p>Architecting and building full-stack software, intelligent AI systems and high-performance web applications.</p></div></li>
                 <li><span class="when">2026</span><div><h3>NASA Space Apps Challenge</h3><p class="sub">Planet X and SPHEREx // CLPS Lunar Mission Browser</p><p>Two entries. One finds moving objects in SPHEREx all-sky images and grades them against JPL's catalogue; the other compares lunar south-pole landing sites using JPL Horizons data.</p></div></li>
@@ -107,7 +105,7 @@
         </section>
 
         <section class="mod" id="skills">
-            <header><span class="n">05</span><h2>Capabilities</h2></header>
+            <header><span class="n">05</span><h2>Capa<em>bilities</em></h2></header>
             <dl class="caps">
                 <div><dt>Languages</dt><dd><span>TypeScript</span><span>JavaScript</span><span>Python</span><span>C++</span></dd></div>
                 <div><dt>Web</dt><dd><span>React</span><span>Next.js</span><span>Vite</span><span>Three.js / WebGL</span></dd></div>
@@ -119,7 +117,7 @@
         </section>
 
         <section class="mod" id="comms">
-            <header><span class="n">06</span><h2>Comms</h2></header>
+            <header><span class="n">06</span><h2>Open a <em>channel</em></h2></header>
             <ul class="comms">
                 <li><a href="mailto:shresthakp07@gmail.com"><span>&gt; mail</span>shresthakp07@gmail.com</a></li>
                 <li><a href="https://github.com/shrestha-droid" target="_blank" rel="noopener"><span>&gt; github</span>shrestha-droid ↗</a></li>

diff --git a/extras.js b/extras.js
@@ -86,6 +86,7 @@
     dlg.addEventListener('click', e => { if (e.target === dlg) dlg.close(); }); // click on the backdrop
     addEventListener('keydown', e => { if ((e.metaKey || e.ctrlKey) && e.key.toLowerCase() === 'k') { e.preventDefault(); dlg.open ? dlg.close() : openPal(); } });
     document.getElementById('open-palette').addEventListener('click', openPal);
+    document.querySelectorAll('[data-palette]').forEach(b => b.addEventListener('click', openPal));
 })();
 
 // ---------- Printable CV: the same data, laid out as a one-page résumé ----------
@@ -100,5 +101,5 @@
         <section><h2>Experience &amp; education</h2><ul class="cv-log">${log}</ul></section>
         <section><h2>Selected projects</h2><ul class="cv-p">${PROJECTS.map(p => `<li><b>${esc(p.title)}</b> <span>${esc(p.kind)}</span><p>${esc(p.summary)}${p.live ? ` <a href="${esc(p.live)}">${esc(new URL(p.live).host + new URL(p.live).pathname).replace(/\/$/, '')}</a>` : ''}</p></li>`).join('')}</ul></section>
         <section><h2>Skills</h2><ul class="cv-s">${caps}</ul></section>`;
-    document.getElementById('print-cv').addEventListener('click', () => window.print());
+    document.getElementById('print-cv')?.addEventListener('click', () => window.print());
 })();
